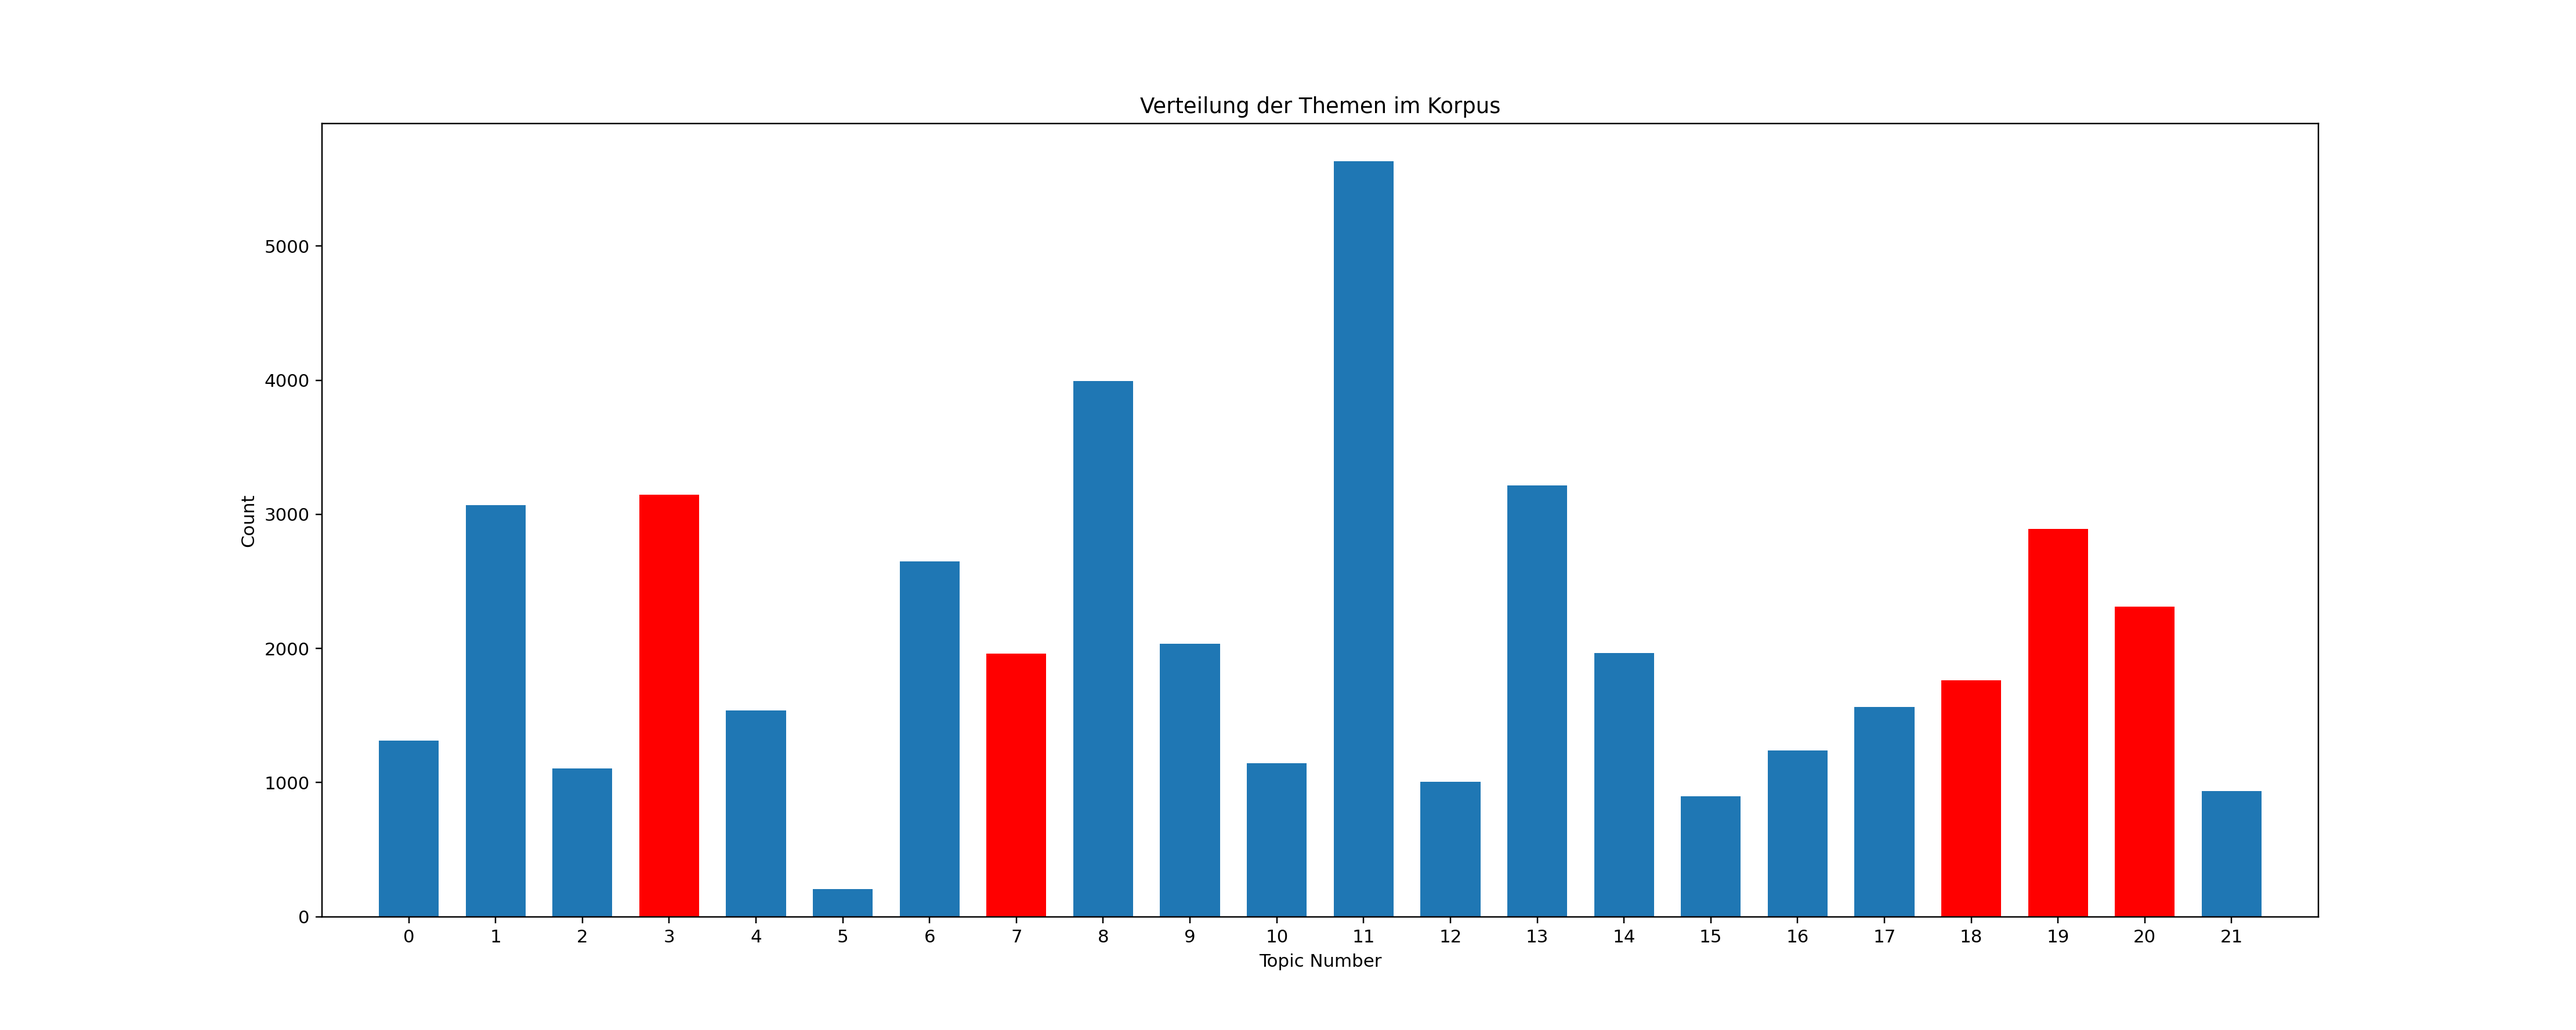
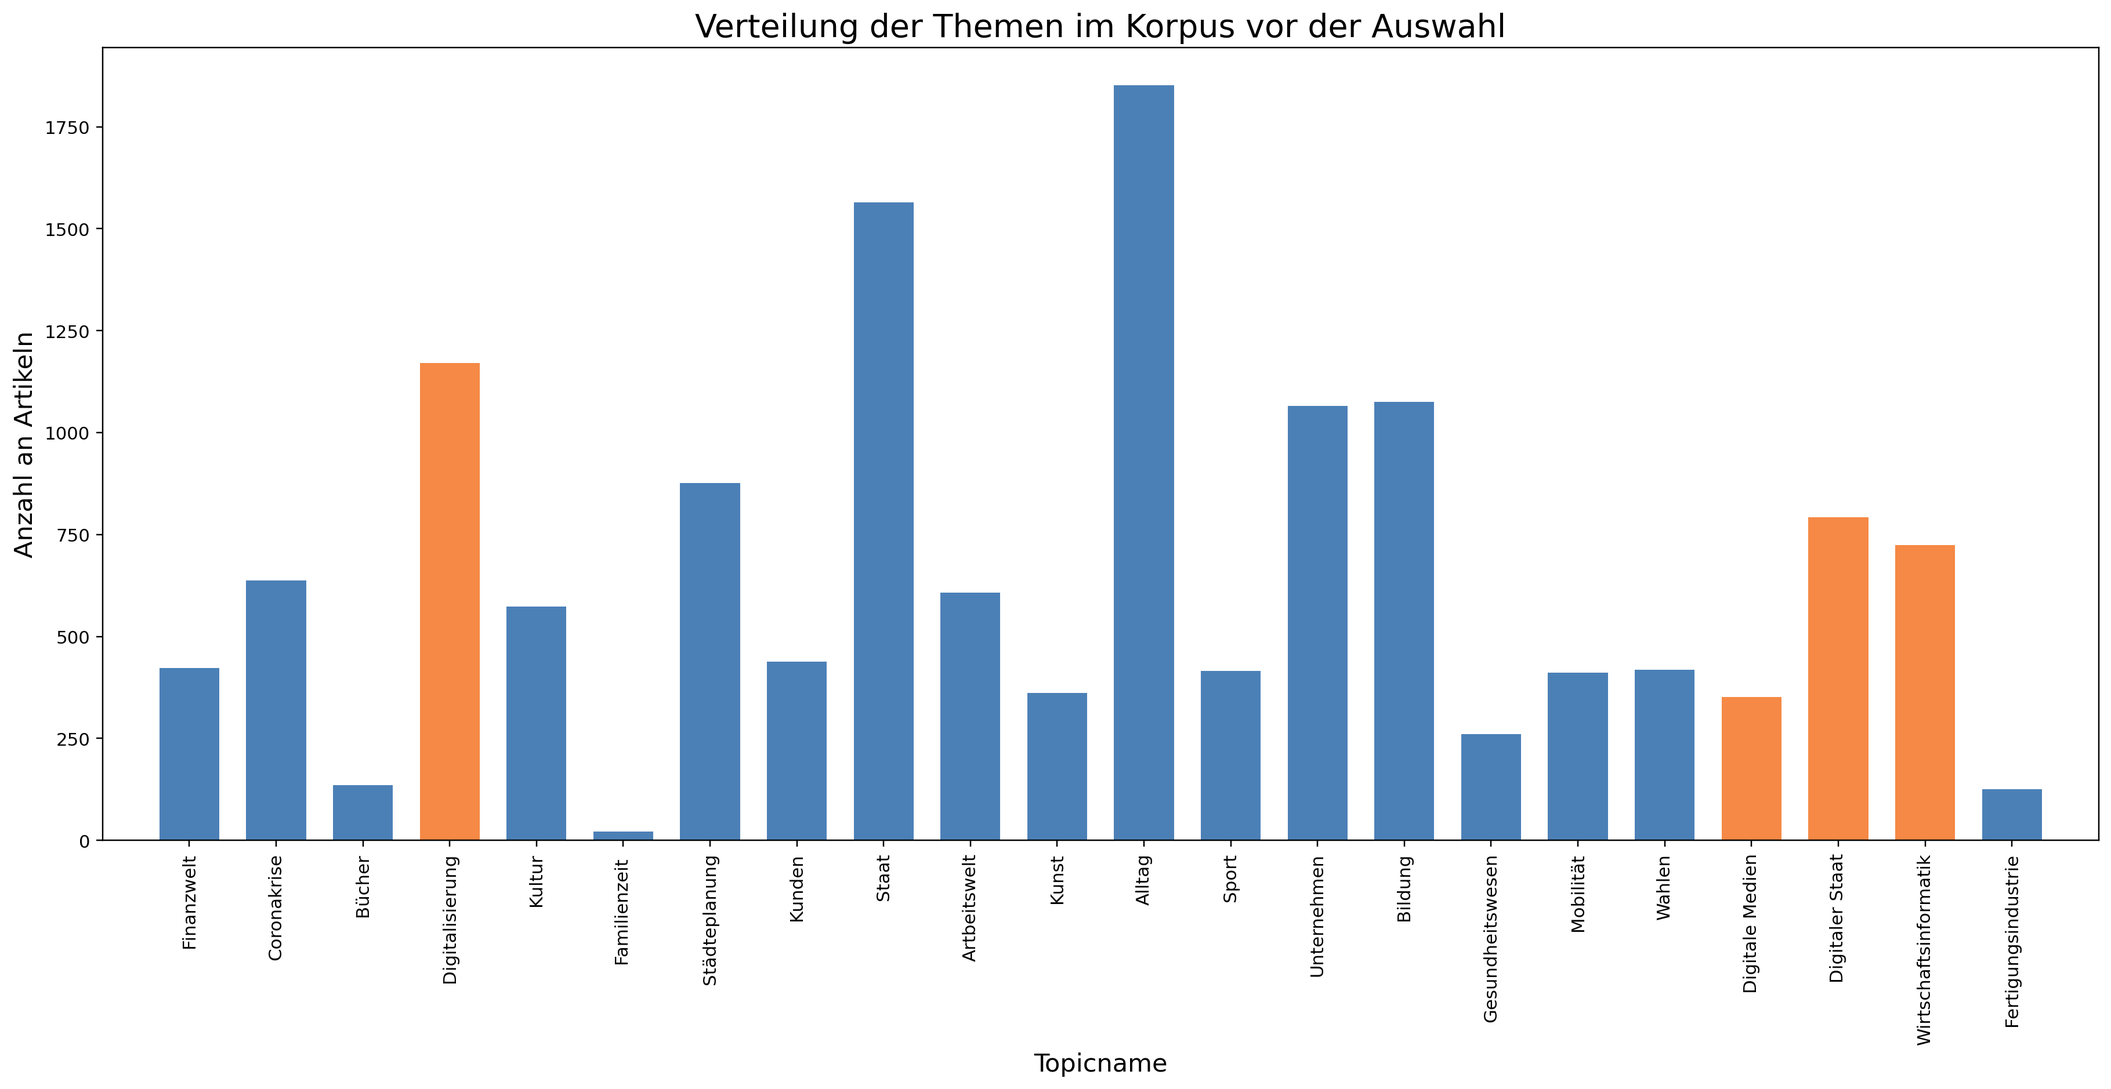
improve plotting and add color shema

diff --git a/plots/sentiment_plots.py b/plots/sentiment_plots.py
@@ -14,7 +14,8 @@ import matplotlib.pyplot as plt
 from resources.database import Database
 import resources.preprocessing as pre
 import pandas as pd
-
+import resources.color_sheme as color_sheme
+plt.rcParams.update(plt.rcParamsDefault)
 
 """
 Get Data
@@ -24,8 +25,8 @@ db = Database()
 source_data = db.get_all(collection="selected2")
 
 data = {
-    "Anglo-Amerikanischer Sprachraum": [art for art in source_data if art["language"]=="en"],
-    "Deutscher Sprachraum": [art for art in source_data if art["language"] == "de"]
+    "Deutscher Sprachraum": [art for art in source_data if art["language"] == "de"],
+    "Anglo-Amerikanischer Sprachraum": [art for art in source_data if art["language"]=="en"]
     }
 
 """
@@ -35,10 +36,11 @@ Plot Histogram
 #plot en vs de
 plt.figure(figsize=(10, 10), dpi=222)
 sent = dict()
+colors = color_sheme.get_colors_lang()
 for lang in data.keys():
     sent[lang] = [art["sentiment"] for art in data[lang]]
     sns.distplot(sent[lang], label=lang+", mean=" +
-                 str(round(mean(sent[lang]), 3)), kde=False)
+                 str(round(mean(sent[lang]), 3)), kde=True, color=colors[list(data.keys()).index(lang)])
 
 plt.xlabel("Tonalität")
 plt.ylabel("Häufigkeit")
@@ -50,7 +52,7 @@ plt.savefig("plots/images/verteilung_sentiment.png")
 """
 Plot TimeSeries
 """
-
+plt.rcParams.update(plt.rcParamsDefault)
 plt.figure(figsize=(15,8))
 for lang in data.keys():
     x = list()
@@ -60,18 +62,20 @@ for lang in data.keys():
         y.append(art["sentiment"])
     x, y = zip(*sorted(zip(x, y)))
     y = SimpleExpSmoothing(y).fit(smoothing_level=0.075).fittedvalues
-    plt.plot(x,y,label=lang)
+    plt.plot(x,y,label=lang,color=colors[list(data.keys()).index(lang)])
     
     # calc the trendline
     x1 = [i.timestamp() for i in x]
     z = np.polyfit(x1, y, 1)
     p = np.poly1d(z)
     trendline_function="y="+str(z[0])+"x +("+str(z[1])+")"
-    plt.plot(x,p(x1),label=lang+" trendline: "+trendline_function)  
+    plt.plot(x, p(x1), label=lang+" trendline: "+trendline_function,
+             color=colors[list(data.keys()).index(lang)])
 plt.title("Tonalität im Zeitverlauf",fontsize=15)
 plt.ylabel("Tonalität",fontsize=12)
 plt.legend()
-plt.savefig("plots/images/zeitreihen.png",bbox_inches='tight')
+plt.savefig("plots/images/zeitreihen.png",bbox_inches=0)
+
 
 
 """
@@ -182,9 +186,9 @@ labels = list(sentiments.keys())
 x = np.arange(len(labels))  # the label locations
 width = 0.3  # the width of the bars
 
-fig, ax = plt.subplots(figsize=(10, 5), dpi=100)
-rects1 = ax.bar(x - width/2, de_means, width, label='de')
-rects2 = ax.bar(x + width/2, en_means, width, label='en')
+fig, ax = plt.subplots(figsize=(10, 5), dpi=222)
+rects1 = ax.bar(x - width/2, de_means, width, label='de',color=colors[0])
+rects2 = ax.bar(x + width/2, en_means, width, label='en',color=colors[1])
 
 ax.set_ylabel('Tonalität')
 ax.set_title('Durchschnittliche Tonalität je Topic')
@@ -192,5 +196,5 @@ ax.set_xticks(x)
 ax.set_xticklabels(labels)
 plt.legend()
 plt.xticks(rotation=90)
-plt.savefig("plots/images/mean_sentiment_topic.png")
+plt.savefig("plots/images/mean_sentiment_topic.png", bbox_inches='tight')
     

diff --git a/plots/topics_histogram.py b/plots/topics_histogram.py
@@ -4,15 +4,19 @@ sys.path.append("./")
 import pyLDAvis.gensim
 import gensim
 from gensim import corpora
-from database import Database
-import preprocessing as pre
+from resources.database import Database
+import resources.preprocessing as pre
 import numpy as np
+import pandas as pd
 import random
 from datetime import datetime
+import resources.color_sheme as color_sheme
+
+colors = color_sheme.get_colors_lang()
 
 
 db = Database()
-
+topic_names = pd.read_csv("resources/interpretation.csv")["Ergebnis"].to_list()
 source_data = db.get_all(collection="date")
 text = [i["lda"] for i in source_data]
 text_data = [t.split(" ") for t in text]
@@ -20,25 +24,26 @@ dictionary = corpora.Dictionary(text_data)
 corpus = [dictionary.doc2bow(text) for text in text_data]
 ldamodel = gensim.models.ldamodel.LdaModel.load("data_selection/lda_models/lda_t22_07072020_103348.model")
 
-selected_topics = [3, 7, 18, 19, 20]
+selected_topics = [3, 18, 19, 20]
 document_topics = [ldamodel.get_document_topics(item) for item in corpus]
 
-cleantopics = list()
+suretopics = list()
 for doc in document_topics:
     for topic in doc:
-        if topic[1] > 0.1:
-            cleantopics.append(topic[0])
+        if topic[1] > 0.3:
+            suretopics.append(topic[0])
 
 fig, ax = plt.subplots(figsize=(20, 8), dpi=222)
 bins = np.arange(24) - 0.5
-plt.xticks(range(22))
+plt.xticks(range(22), topic_names)
+plt.xticks(rotation=90)
 plt.xlim([-1, 22])
-plt.title("Verteilung der Themen im Korpus")
-plt.xlabel("Topic Number")
-plt.ylabel("Count")
-N, bins, patches = ax.hist(cleantopics, bins, rwidth=0.69)
+plt.xlabel("Topicname", fontsize=14)
+plt.title("Verteilung der Themen im Korpus vor der Auswahl", fontsize=18)
+plt.ylabel("Anzahl an Artikeln", fontsize=14)
+N, bins, patches = ax.hist(suretopics, bins, rwidth=0.69, color=colors[0])
 
 for i in selected_topics:
-    patches[i].set_facecolor('r')
+    patches[i].set_facecolor(colors[1])
 
-plt.savefig("plots/images/histogram_topics.png")
+plt.savefig("plots/images/histogram_topics.png",bbox_inches='tight')

diff --git a/plots/article_count_searchterm.py b/plots/article_count_searchterm.py
@@ -2,10 +2,11 @@ import matplotlib.pyplot as plt
 import os
 import sys
 sys.path.append("./")
-from database import Database
+from resources.database import Database
 import pandas as pd
 import numpy as np
-
+import resources.color_sheme as color_sheme
+plt.rcParams.update(plt.rcParamsDefault)
 db = Database()
 filename = os.path.basename(__file__).split(".")[0]
 
@@ -44,18 +45,20 @@ store = new_store
 plot_hand = list()
 terms = list(store.keys())
 width = 0.5
-plt.figure(figsize=(10, 5), dpi=200)
+fig = plt.figure(figsize=(10, 5), dpi=222)
+colors = color_sheme.get_colors()[:5]
 for term, arr in zip(terms, store.values()):
     indexterm = terms.index(term)
     if indexterm == 0:
-        plot_hand.append(plt.bar(sources, store[term], width)[0])
+        plot_hand.append(plt.bar(sources, store[term], width,color=colors[terms.index(term)])[0])
 
     else:
         sum_arr = np.array((0, 0, 0, 0, 0, 0))
         for prevterm in terms[:indexterm]:
             sum_arr += np.array(store[prevterm])
         plot_hand.append(
-            plt.bar(sources, store[term], width, bottom=sum_arr)[0])
+            plt.bar(sources, store[term], width, bottom=sum_arr, color=colors[terms.index(term)])[0])
 
 plt.legend(plot_hand, list(store.keys()))
-plt.savefig("plots/images/"+filename+".png")
+plt.savefig("plots/images/"+filename+".png", bbox_inches=0)
+

diff --git a/seniment/calc_sentiment.py b/seniment/calc_sentiment.py
@@ -32,10 +32,8 @@ def calc_sent(article):
     result_t = 0
     result_v = 0
     for sent in sentences:
-        result_t += TextBlob(sent).sentiment.polarity
         result_v += analyser.polarity_scores(sent)["compound"]
 
-    sentiments["textblob_ansatz1"] = result_t/len(sentences)
     sentiments["vader_ansatz1"] = result_v/len(sentences)
 
     #calc sentiment with stronger weigth of first and last forth of article
@@ -75,8 +73,6 @@ def calc_sent(article):
             section_result["mid"]["v"] + section_result["first"]["v"] * weight
         sentiments["vader_ansatz3"] = section_sent/(weight*2+1)
     except Exception as e:
-        print(e)
-        sentiments["textblob_ansatz3"] = sentiments["textblob_ansatz1"]
         sentiments["vader_ansatz3"] = sentiments["vader_ansatz1"]
 
     return sentiments
@@ -96,7 +92,7 @@ data = {"Anglo-Amerikanischer Sprachraum": list(), "Deutscher Sprachraum": list(
 
 for art in source_data:
     art["sentiment"] = calc_sent(art)["vader_ansatz3"]
-    db.update_article(collection="selected2",art)
+    db.update_article(collection="selected2",data=art)
     if art["language"] == "en":
         data["Anglo-Amerikanischer Sprachraum"].append(art)
     else:

diff --git a/seniment/evaluation_other_approaches.py b/seniment/evaluation_other_approaches.py
@@ -14,7 +14,12 @@ import seaborn as sns
 from resources.database import Database
 import resources.preprocessing as pre
 from vaderSentiment.vaderSentiment import SentimentIntensityAnalyzer
+import resources.color_sheme as color_sheme
+
+
 analyser = SentimentIntensityAnalyzer()
+sns.set_style("white")
+sns.set_palette(sns.color_palette(color_sheme.get_colors()))
 
 """
 Method that defines all sentiment calculation approaches
@@ -105,7 +110,7 @@ Get relevant data from database
 db = Database()
 source_data = db.get_all(collection="selected2")
 
-data = {"en":list(),"de":list()}
+data = {"de": list(),"en": list()}
 
 for art in source_data:
     if art["language"] =="en":
@@ -161,5 +166,9 @@ for tool,a in zip(tools_plot,ax.flat):
     a.title.set_text(tool+", p-Wert: "+p)
 fig.tight_layout(pad=3.0)
 fig.suptitle("Sentimentverteilung aller Ansätze",fontsize=15)
-fig.savefig("plots/images/verteilungenderalternativenansätze.png",bbox_inches='tight')
+try:
+    fig.grid(False)
+except:
+    pass
+fig.savefig("plots/images/verteilungenderalternativenansätze.png", bbox_inches='tight')
 

diff --git a/plots/selection_sprachraum.py b/plots/selection_sprachraum.py
@@ -3,6 +3,7 @@ import os
 import sys
 sys.path.append("./")
 from resources.database import Database
+import resources.color_sheme as color_sheme
 import pandas as pd
 import numpy as np
 
@@ -34,17 +35,19 @@ plot_hand = list()
 fig, ax = plt.subplots(figsize=(17, 10), dpi=222)
 width = 0.5
 terms = list(store.keys())
+colors = color_sheme.get_colors()[:6]
 for term, arr in zip(terms, store.values()):
     indexterm = terms.index(term)
     if indexterm == 0:
-        plot_hand.append(plt.bar(xlabel, store[term], width)[0])
+        plot_hand.append(
+            plt.bar(xlabel, store[term], width, color=colors[terms.index(term)])[0])
 
     else:
         sum_arr = np.array((0, 0, 0, 0,0,0))
         for prevterm in terms[:indexterm]:
             sum_arr += np.array(store[prevterm])
         plot_hand.append(
-            plt.bar(xlabel, store[term], width, bottom=sum_arr)[0])
+            plt.bar(xlabel, store[term], width, bottom=sum_arr, color=colors[terms.index(term)])[0])
 
 
 plt.ylabel("Artikelanzahl",fontsize=12)
